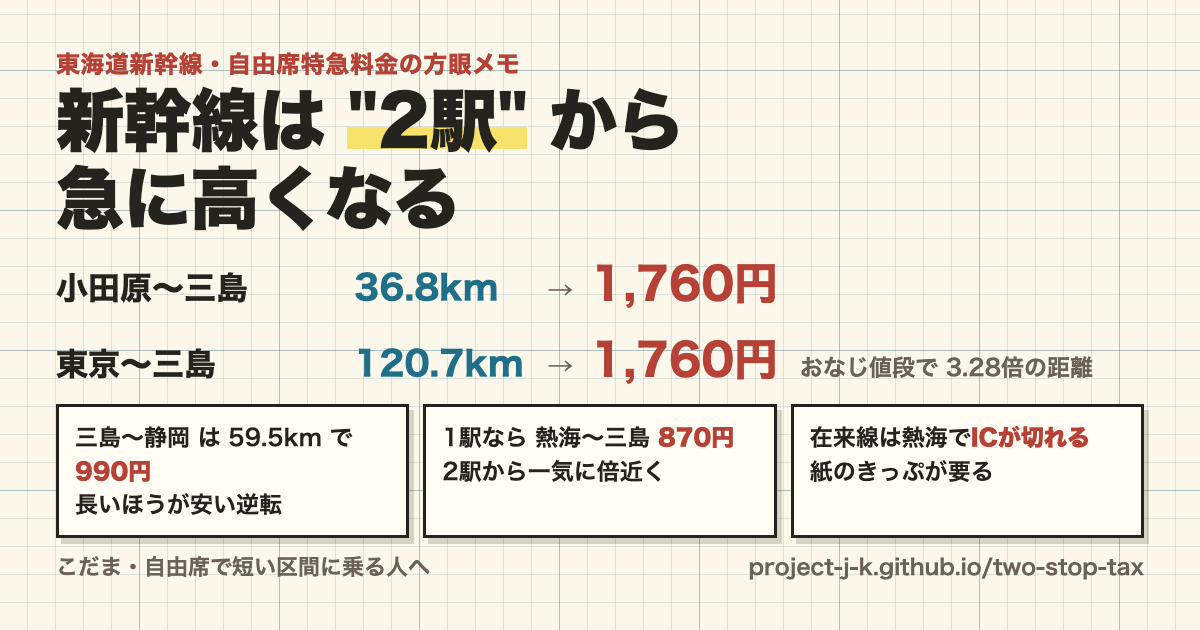
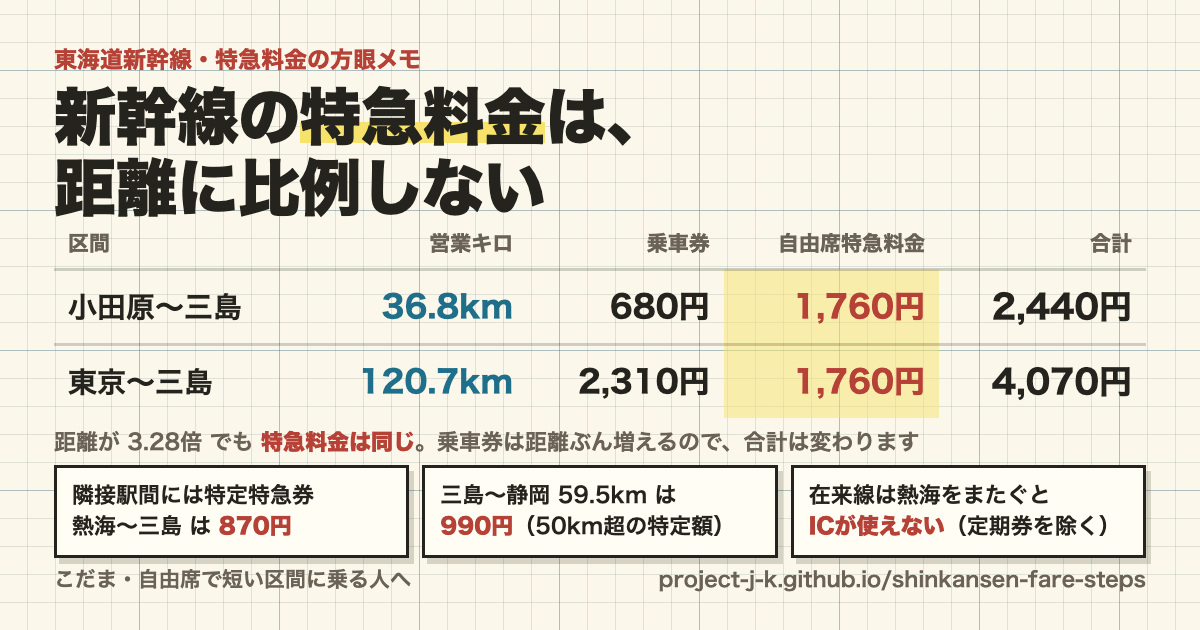
トーンを中立化し、リポジトリ名を shinkansen-fare-steps に変更
公開後のレビューを受けて、制度の解説として公正な書き方に改めた。

- タイトルを「新幹線は 2駅 から急に高くなる」から
  「新幹線の特急料金は、距離に比例しない」へ。価値判断を含む
  表現をやめ、制度の事実の記述にした
- 「跳ね上がる」「放置」「網から落ちて」「逃げる」「壊れて」などを
  淡々とした言い方に。データ側の「いちばん重い」「本サイト」も同様
- 同じなのは特急料金だけで、乗車券は距離に応じて増えるため
  支払総額は 2,440円 と 4,070円 で異なることを本文に明記
- 在来線という選択肢があることを前半でも示した
- OG画像を、乗車券・特急料金・合計を並べた表に作り直した。
  特急料金だけを見た人が総額まで同じだと誤解しないため
- ファビコンの階段を赤（警告色）から青に
- リポジトリ名の tax（税）も同じ懸念があるため改称

Changed region(s): [[0.0308, 0.0603, 0.9558, 0.9349]]

diff --git a/src/sections/article.ts b/src/sections/article.ts
@@ -18,8 +18,6 @@ const keyPoint = (label: string, text: string): string => `
     <blockquote>${escapeHtml(text)}</blockquote>
   </figure>`;
 
-const readerFacingUse = (text: string): string => text.replace("本サイトの一次データ", "本ページの一次資料");
-
 const fareLine = (pair: Pair): string => `
   <tr>
     <td>${sectionName(pair)}</td>
@@ -75,7 +73,7 @@ const renderChecker = (data: TokaidoData): string => {
     <section id="checker" class="section checker-section">
       <p class="section-number">7</p>
       <h2><span>乗る区間を調べてみる</span></h2>
-      <p class="body-text">ここまでの話は、特定の区間だけの珍事件に見えるかもしれません。そこで、出発駅と到着駅を選ぶだけで、その区間が特定特急券の側にいるのか、通常の階段料金の側にいるのかを確認できるようにしました。</p>
+      <p class="body-text">ここまでの話は、特定の区間だけの例に見えるかもしれません。そこで、出発駅と到着駅を選ぶだけで、その区間が特定特急券の対象なのか、通常の階段料金なのかを確認できるようにしました。</p>
       <p class="body-text">表示するのは、乗車券、自由席特急料金、指定席特急料金、実際に払う合計額、そして自由席特急料金を営業キロで割った単価です。同じ駅を選んだ場合は、移動区間ではないので料金を出さず、別の駅を選ぶよう案内します。</p>
       <div class="checker">
         <label>出発駅<select id="fromStation">${options}</select></label>
@@ -125,8 +123,8 @@ export const renderArticle = (data: TokaidoData): string => {
     <header class="hero">
       <div class="hero-copy">
         <p class="kicker">東海道新幹線・自由席特急料金の方眼メモ</p>
-        <h1><span class="title-line">新幹線は <mark>"2駅"</mark> から</span><span class="title-line">急に高くなる</span></h1>
-        <p class="subtitle">${sectionName(hero)} ${km(hero.km)} の自由席特急料金は ${yen(hero.freeLtd)}。${sectionName(same)} ${km(same.km)} も、同じ ${yen(same.freeLtd)}。</p>
+        <h1><span class="title-line">新幹線の<mark>特急料金</mark>は、</span><span class="title-line">距離に比例しない</span></h1>
+        <p class="subtitle">${sectionName(hero)} ${km(hero.km)} の自由席特急料金は ${yen(hero.freeLtd)}。${sectionName(same)} ${km(same.km)} も、特急料金は同じ ${yen(same.freeLtd)} です。</p>
         <div class="hero-note sticky">${data.highlights.hero.note}</div>
       </div>
     </header>
@@ -154,7 +152,8 @@ export const renderArticle = (data: TokaidoData): string => {
         </div>
         <p class="body-text">三島から小田原まで新幹線の自由席に乗ると、乗車券と自由席特急券を合わせて ${yen(hero.freeTotal)} かかります。内訳は乗車券が ${yen(hero.fare)}、自由席特急料金が ${yen(hero.freeLtd)} です。営業キロは ${km(hero.km)} しかありません。</p>
         <p class="body-text">ところが、同じ三島から東京まで ${km(same.km)} 乗っても、自由席特急料金は ${yen(same.freeLtd)} でまったく同じです。特急料金だけを見れば、${sectionName(hero.sameFareFarthest)} のように ${ratio(hero.sameFareFarthest.timesFarther)} の距離まで同じ値段で行けます。</p>
-        <p class="body-text">乗車券は距離に応じて増えていきますが、特急料金はそう動いていません。この違和感がどこから来るのかを、東海道新幹線の全区間の記録で追っていきます。</p>
+        <p class="body-text">ただし、同じなのは特急料金だけです。乗車券は距離に応じて増えるため、自由席で払う合計額は ${sectionName(hero)} が ${yen(hero.freeTotal)}、${sectionName(same)} が ${yen(same.freeTotal)} で異なります。</p>
+        <p class="body-text">乗車券は距離に応じて増えていきますが、特急料金は同じ幅の距離帯ごとに決まります。このページでは、東海道新幹線の全区間の記録から、その仕組みを見ていきます。在来線を使う選択肢についても、後半で整理します。</p>
       </section>
 
       <section id="section-2" class="section">
@@ -162,14 +161,15 @@ export const renderArticle = (data: TokaidoData): string => {
         <h2><span>特急料金は、乗った距離だけでは決まりません</span></h2>
         <p class="body-text">新幹線に乗るときの支払いは、大きく分けると乗車券と特急券です。乗車券は普通列車に乗るための基本料金で、営業キロ、つまり運賃計算に使う鉄道上の距離に応じて増えていきます。</p>
         <p class="body-text">一方で、特急料金は営業キロに応じた階段で決まります。その最初の段である ${data.fareTiers[0].label} が広く、指定席なら ${yen(data.fareTiers[0].reservedLtd)}、自由席なら ${yen(data.fareTiers[0].freeLtd)} が一律でかかります。</p>
-        <p class="body-text">つまり、この段の中では短く乗っても長く乗っても特急料金は同じです。乗車券は少しずつ増えるのに、特急料金だけが平らな踊り場を持っているため、乗る距離が短いほど ${perKm(hero.yenPerKmFree)} のように負担が跳ね上がります。</p>
+        <p class="body-text">つまり、この段の中では短く乗っても長く乗っても特急料金は同じです。距離に完全比例させず、一定の距離帯ごとに料金を決めているため、短距離と長距離の料金差は段階的に表れます。</p>
+        <p class="body-text">そのため、乗る距離が短い区間では、自由席特急料金を営業キロで割った値が ${perKm(hero.yenPerKmFree)} のように大きくなります。これは特急料金だけを1kmあたりで見た場合の比較です。</p>
         ${fareStepChart(data.fareTiers)}
       </section>
 
       <section id="section-3" class="section">
         <p class="section-number">3</p>
         <h2><span>短い区間には割引があります</span></h2>
-        <p class="body-text">JRも短距離の割高感を放置しているわけではありません。隣接する駅どうしの区間には、特定特急券という割安な自由席用の特急券があります。指定席ではなく、自由席に乗るときの短距離向け割引です。</p>
+        <p class="body-text">短距離向けには、別の料金も用意されています。隣接する駅どうしの区間には、特定特急券という自由席用の特急券があります。指定席ではなく、自由席に乗るときの短距離向け割引です。</p>
         <p class="body-text">この特定特急券は、通常の ${data.fareTiers[0].label} の階段とは別枠です。営業キロ ${km(data.tokuteiRule.thresholdKm)} 以下なら ${yen(data.tokuteiRule.amounts.upTo50km)}、${km(data.tokuteiRule.thresholdKm)} を超えるなら ${yen(data.tokuteiRule.amounts.over50km)} になります。熱海〜三島は ${yen(oneStop.freeLtd)}、小田原〜熱海も ${yen(oneStopWest.freeLtd)} です。</p>
         <div class="note-row">
           <div class="sticky small">隣接駅間なら ${km(data.tokuteiRule.thresholdKm)} 以下 ${yen(data.tokuteiRule.amounts.upTo50km)} / 超 ${yen(data.tokuteiRule.amounts.over50km)}</div>
@@ -178,16 +178,16 @@ export const renderArticle = (data: TokaidoData): string => {
             <p>1駅ずつなら ${yen(oneStopWest.freeLtd)} と ${yen(oneStop.freeLtd)}。分割すると ${yen(splitOdawaraMishima.splitLtd)}、通しで買うと ${yen(hero.freeLtd)}。</p>
           </div>
         </div>
-        <p class="body-text">ここが本題です。小田原から三島までは、小田原〜熱海と熱海〜三島を足しただけの距離です。ところが通しの小田原〜三島になると、特定特急券の網から落ちて ${yen(hero.freeLtd)} になります。</p>
-        <p class="body-text">分割購入をしても、差は ${yen(splitOdawaraMishima.saving)} だけです。ほぼ得をしないので、この区間には「買い方で逃げる」余地があまりありません。</p>
+        <p class="body-text">ここで見る小田原から三島までは、小田原〜熱海と熱海〜三島を足した距離です。通しの小田原〜三島は特定特急券の対象ではないため、自由席特急料金は ${yen(hero.freeLtd)} になります。</p>
+        <p class="body-text">分割購入をしても、差は ${yen(splitOdawaraMishima.saving)} だけです。この区間では、買い方で調整できる余地は大きくありません。</p>
       </section>
 
       <section id="section-4" class="section">
         <p class="section-number">4</p>
-        <h2><span>短いほうが高くなる区間があります</span></h2>
-        <p class="body-text">三島から静岡までは ${km(cheaper.km)} ありますが、自由席特急料金は ${yen(cheaper.freeLtd)} です。小田原から三島までは ${km(hero.km)} しかないのに、自由席特急料金は ${yen(hero.freeLtd)} です。</p>
-        <p class="body-text">短いほうが高い、という逆転が起きています。差額は ${yen(shortPremium)} です。これは割引商品やキャンペーンの話ではなく、通常の自由席特急料金どうしの比較です。</p>
-        <p class="body-text">新横浜〜小田原も ${km(cheaper2.km)} で ${yen(cheaper2.freeLtd)} です。小田原〜三島より長いのに安い区間が複数あることで、距離と値段の対応が壊れて見える理由がはっきりします。</p>
+        <h2><span>距離の順と特急料金の順が異なる区間があります</span></h2>
+        <p class="body-text">三島から静岡までは ${km(cheaper.km)} あり、自由席特急料金は ${yen(cheaper.freeLtd)} です。小田原から三島までは ${km(hero.km)} で、自由席特急料金は ${yen(hero.freeLtd)} です。</p>
+        <p class="body-text">この比較では、短い区間のほうが自由席特急料金は高くなっています。差額は ${yen(shortPremium)} です。これは割引商品やキャンペーンの話ではなく、通常の自由席特急料金どうしの比較です。</p>
+        <p class="body-text">新横浜〜小田原も ${km(cheaper2.km)} で ${yen(cheaper2.freeLtd)} です。小田原〜三島より長く、自由席特急料金が低い区間が複数あるため、距離の順と料金の順が一致しない場合があります。</p>
         ${comparisonBarChart(comparisonItems)}
       </section>
 
@@ -198,8 +198,8 @@ export const renderArticle = (data: TokaidoData): string => {
         <p class="body-text">その後に新駅ができた区間は、規則に区間名を書いて割引を続けています。代表例が ${sectionName(cheaper)} で、あとから新富士が入って現在は隣どうしではなくなっても、自由席特急料金は ${yen(cheaper.freeLtd)} のままです。</p>
         ${keyPoint("特定特急券の基準", data.tokuteiRule.basisNote)}
         ${timeline1972Chart(data.stations, data.tokuteiRule)}
-        <p class="body-text">一方で、三島駅の開業は ${year(mishimaStation.opened)}年です。基準になる ${year(data.tokuteiRule.basisYear)}年には、すでに小田原・熱海・三島の順で駅が並んでいました。小田原と三島は隣接だったことがないため、「あとから駅が挟まった区間」として割引される入口に立てませんでした。</p>
-        <p class="body-text">もし三島が新富士たちと同じ ${year(newFujiStation.opened)}年開業だったなら、小田原〜三島は今も特定特急券の対象で、${km(data.tokuteiRule.thresholdKm)} 以下の ${yen(data.tokuteiRule.amounts.upTo50km)} だったはずです。半世紀前の駅の並びが、いまの短距離移動の負担感につながっています。</p>
+        <p class="body-text">一方で、三島駅の開業は ${year(mishimaStation.opened)}年です。基準になる ${year(data.tokuteiRule.basisYear)}年には、すでに小田原・熱海・三島の順で駅が並んでいました。小田原と三島は隣接だったことがないため、「あとから駅が挟まった区間」として扱われる条件には該当しません。</p>
+        <p class="body-text">もし三島が新富士たちと同じ ${year(newFujiStation.opened)}年開業だったなら、小田原〜三島は今も特定特急券の対象で、${km(data.tokuteiRule.thresholdKm)} 以下の ${yen(data.tokuteiRule.amounts.upTo50km)} になっていた可能性があります。半世紀前の駅の並びが、いまの短距離区間の料金体系につながっています。</p>
         ${keyPoint("小田原〜三島が外れた理由", data.tokuteiRule.whyOdawaraMishimaExcluded)}
         <ul class="lined-list">
           ${data.tokuteiRule.enumeratedSections
@@ -218,7 +218,7 @@ export const renderArticle = (data: TokaidoData): string => {
         <p class="body-text">全区間で見ると、隣接駅間は距離が極端に短いので単価が高く出ます。これは短距離向けの特定特急券が効いていても、分母の営業キロが小さいためです。</p>
         ${collapsedRowsTable(fareHeaders, worst.map(fareLine))}
         <h3 class="subhead">自由席 円/km が高い区間（特定特急券なし）</h3>
-        <p class="body-text">特定特急券が効かない区間だけに絞ると、短距離なのに通常の階段料金へ乗ってしまう区間が浮かびます。この表では ${sectionName(worstNoTokutei[0])} が先頭に来ます。</p>
+        <p class="body-text">特定特急券が効かない区間だけに絞ると、短距離で通常の階段料金に入る区間が分かります。この表では ${sectionName(worstNoTokutei[0])} が先頭に来ます。</p>
         ${collapsedRowsTable(fareHeaders, worstNoTokutei.map(fareLine))}
       </section>
 
@@ -227,14 +227,14 @@ export const renderArticle = (data: TokaidoData): string => {
       <section id="section-8" class="section">
         <p class="section-number">8</p>
         <h2><span>同じことが起きている区間</span></h2>
-        <p class="body-text">ここで見るのは、特定特急券が効かず、営業キロが ${data.fareTiers[0].label} の中に収まる区間です。さらに、あいだに駅があるほど「短距離なのに隣接駅扱いではない」ことが分かりやすくなります。</p>
-        <p class="body-text">一覧には、あいだの駅数も加えました。営業キロだけなら短いのに、特急料金は通常の踊り場に乗ってしまう区間です。</p>
+        <p class="body-text">ここで見るのは、特定特急券が効かず、営業キロが ${data.fareTiers[0].label} の中に収まる区間です。さらに、あいだに駅があるほど「短距離でも隣接駅間として扱われない」ことが分かりやすくなります。</p>
+        <p class="body-text">一覧には、あいだの駅数も加えました。営業キロは短くても、特急料金は通常の距離帯で決まる区間です。</p>
         ${collapsedRowsTable(
           noTokuteiHeaders,
           noTokuteiUnderTier.map((pair) => `<tr><td>${sectionName(pair)}</td><td>${km(pair.km)}</td><td>${pair.stationsBetween.toLocaleString("ja-JP")}</td><td>${yen(pair.fare)}</td><td>${yen(pair.freeLtd)}</td><td>${yen(pair.freeTotal)}</td><td>${yen(pair.reservedLtd)}</td><td>${yen(pair.reservedTotal)}</td><td>${perKm(pair.yenPerKmFree)}</td><td>${sameFareCell(pair)}</td></tr>`),
         )}
         <p class="body-text">分割購入は、区間によって効き方がかなり違います。${splitGifuKyoto.from}〜${splitGifuKyoto.to} は ${yen(splitGifuKyoto.saving)} も安くなりますが、${splitOdawaraMishima.from}〜${splitOdawaraMishima.to} は ${yen(splitOdawaraMishima.saving)} しか変わりません。</p>
-        <p class="body-text">理由は単純です。小田原〜三島は通しで買っても、すでに最初の踊り場である ${yen(data.fareTiers[0].freeLtd)} どまりです。そこから分割しても、下げ幅がほとんど残っていません。</p>
+        <p class="body-text">理由は単純です。小田原〜三島は通しで買っても、すでに最初の距離帯である ${yen(data.fareTiers[0].freeLtd)} です。そこから分割しても、差額は小さくなります。</p>
         <div class="split-grid">
           ${data.splits
             .map(
@@ -252,7 +252,7 @@ export const renderArticle = (data: TokaidoData): string => {
         <p class="section-number">9</p>
         <h2><span>在来線なら安い。ただし熱海で乗り継ぎになります</span></h2>
         <p class="body-text">在来線を選ぶと、特急料金はかかりません。小田原〜三島なら、乗車券は ${yen(hero.fare)} です。新幹線の自由席に乗ると合計は ${yen(hero.freeTotal)} なので、乗車券だけの場合の ${ratio(hero.freeMultipleOfFare)} になります。</p>
-        <p class="body-text">この差は、速さと乗り通しやすさに対して支払う上乗せ分です。短い距離では、その上乗せ分がかなり大きく見えます。</p>
+        <p class="body-text">この差は、速さと乗り通しやすさに対して支払う上乗せ分です。短い距離では、その上乗せ分の割合が大きく見えます。</p>
         ${keyPoint("新幹線と在来線の乗車券", data.conventionalLine.note)}
         <div class="boundary-grid">
           <div class="paper-block"><h3>${data.conventionalLine.boundary.station}の会社境界</h3><p>${data.conventionalLine.boundary.east}</p><p>${data.conventionalLine.boundary.west}</p>${keyPoint("会社の境界はどこか", data.conventionalLine.boundary.physicalBoundary)}</div>
@@ -273,13 +273,13 @@ export const renderArticle = (data: TokaidoData): string => {
           <summary>出典 ${data.sources.length.toLocaleString("ja-JP")}件（JR東海 旅客営業規則ほか）</summary>
           <ol>
             ${data.sources
-              .map((source) => `<li><a href="${escapeHtml(source.url)}" rel="noreferrer">${escapeHtml(source.title)}</a><span>${escapeHtml(source.publisher)} / ${escapeHtml(readerFacingUse(source.used))}</span></li>`)
+              .map((source) => `<li><a href="${escapeHtml(source.url)}" rel="noreferrer">${escapeHtml(source.title)}</a><span>${escapeHtml(source.publisher)} / ${escapeHtml((source.used))}</span></li>`)
               .join("")}
           </ol>
         </details>
         <div class="paper-block">
           <p>${data.meta.fareBasis}</p>
-          <p>${readerFacingUse(data.meta.reservedSource)}</p>
+          <p>${(data.meta.reservedSource)}</p>
           <p>${data.meta.tokuteiBasis}</p>
           <ul>${data.meta.caveats.map((caveat) => `<li>${escapeHtml(caveat)}</li>`).join("")}</ul>
         </div>

diff --git a/index.html b/index.html
@@ -3,10 +3,10 @@
   <head>
     <meta charset="UTF-8" />
     <meta name="viewport" content="width=device-width, initial-scale=1.0" />
-    <title>新幹線は &quot;2駅&quot; から急に高くなる｜東海道新幹線・短距離の特急料金</title>
+    <title>新幹線の特急料金は、距離に比例しない｜東海道新幹線・短い区間の料金のしくみ</title>
     <meta
       name="description"
-      content="小田原〜三島 36.8km の自由席特急料金は1,760円。東京〜三島 120.7km も同じ1,760円です。なぜ短い区間ほど割高になるのか、JR東海の旅客営業規則と全136区間のデータで確かめました。"
+      content="東海道新幹線の特急料金は、営業キロの距離帯ごとに決まります。小田原〜三島 36.8km も東京〜三島 120.7km も自由席特急料金は1,760円で、乗車券を含めた合計では 2,440円 と 4,070円 になります。JR東海の旅客営業規則と全136区間の記録から、そのしくみを整理しました。"
     />
 
     <link rel="icon" href="/favicon.svg" type="image/svg+xml" />
@@ -16,28 +16,28 @@
 
     <meta property="og:type" content="article" />
     <meta property="og:locale" content="ja_JP" />
-    <meta property="og:site_name" content="東海道新幹線・自由席特急料金の方眼メモ" />
-    <meta property="og:url" content="https://project-j-k.github.io/two-stop-tax/" />
-    <meta property="og:title" content="新幹線は &quot;2駅&quot; から急に高くなる" />
+    <meta property="og:site_name" content="東海道新幹線・特急料金の方眼メモ" />
+    <meta property="og:url" content="https://project-j-k.github.io/shinkansen-fare-steps/" />
+    <meta property="og:title" content="新幹線の特急料金は、距離に比例しない" />
     <meta
       property="og:description"
-      content="小田原〜三島 36.8km も、東京〜三島 120.7km も、自由席特急料金は同じ1,760円。1駅なら熱海〜三島は870円なのに、2駅またぐと倍近くに。在来線に逃げても熱海でICが切れます。こだま・自由席で短い区間に乗る人へ。"
+      content="特急料金は営業キロの距離帯ごとに決まります。小田原〜三島 36.8km も東京〜三島 120.7km も自由席特急料金は1,760円。ただし乗車券は距離ぶん増えるので、合計は 2,440円 と 4,070円 です。隣接駅間には特定特急券という短距離向けの料金もあります。"
     />
-    <meta property="og:image" content="https://project-j-k.github.io/two-stop-tax/og.png" />
+    <meta property="og:image" content="https://project-j-k.github.io/shinkansen-fare-steps/og.png" />
     <meta property="og:image:width" content="1200" />
     <meta property="og:image:height" content="630" />
     <meta
       property="og:image:alt"
-      content="小田原〜三島 36.8km が1,760円、東京〜三島 120.7km も1,760円であることを並べた図"
+      content="小田原〜三島と東京〜三島の、乗車券・特急料金・合計を並べた比較図"
     />
 
     <meta name="twitter:card" content="summary_large_image" />
-    <meta name="twitter:title" content="新幹線は &quot;2駅&quot; から急に高くなる" />
+    <meta name="twitter:title" content="新幹線の特急料金は、距離に比例しない" />
     <meta
       name="twitter:description"
-      content="小田原〜三島 36.8km も、東京〜三島 120.7km も、自由席特急料金は同じ1,760円。1駅なら870円なのに、2駅またぐと倍近くに。在来線は熱海でICが切れます。"
+      content="特急料金は距離帯ごとに決まります。小田原〜三島 36.8km も東京〜三島 120.7km も自由席特急料金は1,760円。乗車券は距離ぶん増えるので、合計は 2,440円 と 4,070円 です。"
     />
-    <meta name="twitter:image" content="https://project-j-k.github.io/two-stop-tax/og.png" />
+    <meta name="twitter:image" content="https://project-j-k.github.io/shinkansen-fare-steps/og.png" />
   </head>
   <body>
     <div id="app"></div>

diff --git a/vite.config.ts b/vite.config.ts
@@ -3,7 +3,7 @@ import { data } from "./src/lib/data";
 import { renderArticle } from "./src/sections/article";
 
 export default defineConfig({
-  base: process.env.VITE_BASE_PATH ?? "/two-stop-tax/",
+  base: process.env.VITE_BASE_PATH ?? "/shinkansen-fare-steps/",
   plugins: [
     {
       name: "inline-rendered-article",

diff --git a/src/style.css b/src/style.css
@@ -298,7 +298,8 @@ h2 {
 }
 
 .hero-note {
-  width: 100%;
+  /* 左端は本文と揃えたまま、注記らしく幅だけ抑える */
+  width: min(660px, 100%);
   margin: 4px 0 0;
   font-weight: 800;
   overflow-wrap: anywhere;

diff --git a/scripts/make-og.py b/scripts/make-og.py
@@ -4,28 +4,40 @@
 使い方（リポジトリのルートで）:
 
     python3 scripts/make-og.py            # public/og.html を生成
-    "/Applications/Google Chrome.app/Contents/MacOS/Google Chrome" \\
-      --headless=new --disable-gpu --hide-scrollbars \\
-      --window-size=1200,630 --screenshot=public/og.png \\
+    "/Applications/Google Chrome.app/Contents/MacOS/Google Chrome" \
+      --headless=new --disable-gpu --hide-scrollbars \
+      --window-size=1200,630 --screenshot=public/og.png \
       "file://$PWD/public/og.html"
     rm public/og.html                     # PNG にしたら中間HTMLは不要
 
 数値はすべて src/data/tokaido.json から読むので、データを更新したら
 このスクリプトで OG 画像を作り直すこと。
-"""
-import os
-ROOT = os.path.dirname(os.path.dirname(os.path.abspath(__file__)))
-import json
 
+乗車券・特急料金・合計を並べて出しているのは、「同じなのは特急料金だけで、
+支払総額は距離に応じて変わる」ことを画像だけ見た人が誤解しないため。
+"""
+import json, os
+
+ROOT = os.path.dirname(os.path.dirname(os.path.abspath(__file__)))
 d = json.load(open(os.path.join(ROOT, 'src/data/tokaido.json')))
 h = d['highlights']
 hero, same, cheap, one = h['hero'], h['sameFareLongerRide'], h['cheaperButLonger'], h['oneStop']
+tk = d['tokuteiRule']
 ic = d['conventionalLine']['boundary']['station']
 yen = lambda v: f"{v:,}円"
-km  = lambda v: f"{v}km"
+km = lambda v: f"{v}km"
+
+def row(p, accent=False):
+    cls = ' class="accent"' if accent else ''
+    return f"""<tr{cls}>
+      <th>{p['from']}〜{p['to']}</th>
+      <td class="km">{km(p['km'])}</td>
+      <td>{yen(p['fare'])}</td>
+      <td class="ltd">{yen(p['freeLtd'])}</td>
+      <td class="total">{yen(p['freeTotal'])}</td>
+    </tr>"""
 
 page = f"""<!doctype html><html><head><meta charset="utf-8"><style>
-@page {{ size: 1200px 630px; }}
 * {{ box-sizing: border-box; margin: 0; }}
 body {{
   width: 1200px; height: 630px; overflow: hidden;
@@ -37,59 +49,58 @@ body {{
     repeating-linear-gradient(90deg, transparent 0 27px, rgba(64,111,131,.16) 27px 28px),
     repeating-linear-gradient(0deg, transparent 0 139px, rgba(64,111,131,.3) 139px 140px),
     repeating-linear-gradient(90deg, transparent 0 139px, rgba(64,111,131,.3) 139px 140px);
-  padding: 46px 56px;
+  padding: 42px 54px 34px;
   display: flex; flex-direction: column; justify-content: space-between;
 }}
-.kicker {{ color: #b64237; font-size: 24px; font-weight: 800; letter-spacing: .02em; }}
-h1 {{ font-size: 68px; line-height: 1.14; font-weight: 900; letter-spacing: -.01em; }}
+.kicker {{ color: #b64237; font-size: 23px; font-weight: 800; }}
+h1 {{ font-size: 62px; line-height: 1.14; font-weight: 900; letter-spacing: -.01em; margin-top: 4px; }}
 h1 span {{ display: block; white-space: nowrap; }}
 h1 mark {{ color: inherit; background: linear-gradient(to top, transparent .07em, #f7e36b .07em, #f7e36b .4em, transparent .4em); }}
-.rows {{ display: flex; flex-direction: column; gap: 10px; }}
-.row {{ display: flex; align-items: baseline; gap: 18px; font-weight: 800; }}
-.sec {{ font-size: 32px; width: 280px; }}
-.km  {{ font-size: 34px; width: 175px; color: #1f6f8b; }}
-.arrow {{ font-size: 26px; color: #6a6256; }}
-.fare {{ font-size: 44px; color: #b64237; }}
-.same {{ font-size: 23px; margin-left: 4px; color: #6a6256; font-weight: 700; }}
-.notes {{ display: flex; gap: 14px; }}
+table {{ border-collapse: collapse; width: 100%; font-weight: 800; }}
+thead th {{ font-size: 21px; color: #6a6256; font-weight: 800; padding: 0 14px 8px; text-align: right; }}
+thead th:first-child {{ text-align: left; }}
+tbody th {{ font-size: 29px; text-align: left; padding: 11px 14px; white-space: nowrap; }}
+tbody td {{ font-size: 31px; text-align: right; padding: 11px 14px; }}
+tbody tr {{ border-top: 3px solid rgba(37,35,29,.2); }}
+.km {{ color: #1f6f8b; }}
+.ltd {{ color: #b64237; background: rgba(247,227,107,.5); }}
+.total {{ font-size: 33px; }}
+.caption {{ font-size: 22px; font-weight: 700; color: #6a6256; margin-top: 8px; }}
+.caption b {{ color: #b64237; }}
+.notes {{ display: flex; gap: 13px; }}
 .note {{
   flex: 1; border: 3px solid #25231d; background: #fffdf4;
   box-shadow: 5px 6px 0 rgba(50,42,30,.18);
-  padding: 14px 16px; font-size: 23px; font-weight: 700; line-height: 1.45;
+  padding: 12px 15px; font-size: 22px; font-weight: 700; line-height: 1.45;
 }}
 .note b {{ color: #b64237; }}
-.foot {{ display: flex; justify-content: space-between; align-items: flex-end; font-size: 22px; color: #6a6256; font-weight: 700; }}
+.foot {{ display: flex; justify-content: space-between; font-size: 21px; color: #6a6256; font-weight: 700; }}
 </style></head><body>
   <div>
-    <p class="kicker">東海道新幹線・自由席特急料金の方眼メモ</p>
-    <h1><span>新幹線は <mark>"2駅"</mark> から</span><span>急に高くなる</span></h1>
+    <p class="kicker">東海道新幹線・特急料金の方眼メモ</p>
+    <h1><span>新幹線の<mark>特急料金</mark>は、</span><span>距離に比例しない</span></h1>
   </div>
 
-  <div class="rows">
-    <div class="row">
-      <span class="sec">{hero['from']}〜{hero['to']}</span>
-      <span class="km">{km(hero['km'])}</span>
-      <span class="arrow">→</span>
-      <span class="fare">{yen(hero['freeLtd'])}</span>
-    </div>
-    <div class="row">
-      <span class="sec">{same['from']}〜{same['to']}</span>
-      <span class="km">{km(same['km'])}</span>
-      <span class="arrow">→</span>
-      <span class="fare">{yen(same['freeLtd'])}</span>
-      <span class="same">おなじ値段で {round(same['km']/hero['km'],2)}倍の距離</span>
-    </div>
+  <div>
+    <table>
+      <thead><tr><th>区間</th><th>営業キロ</th><th>乗車券</th><th>自由席特急料金</th><th>合計</th></tr></thead>
+      <tbody>
+        {row(hero, True)}
+        {row(same)}
+      </tbody>
+    </table>
+    <p class="caption">距離が {round(same['km'] / hero['km'], 2)}倍 でも <b>特急料金は同じ</b>。乗車券は距離ぶん増えるので、合計は変わります</p>
   </div>
 
   <div class="notes">
-    <div class="note">{cheap['from']}〜{cheap['to']} は {km(cheap['km'])} で <b>{yen(cheap['freeLtd'])}</b><br>長いほうが安い逆転</div>
-    <div class="note">1駅なら {one['from']}〜{one['to']} <b>{yen(one['freeLtd'])}</b><br>2駅から一気に倍近く</div>
-    <div class="note">在来線は{ic}で<b>ICが切れる</b><br>紙のきっぷが要る</div>
+    <div class="note">隣接駅間には特定特急券<br>{one['from']}〜{one['to']} は <b>{yen(one['freeLtd'])}</b></div>
+    <div class="note">{cheap['from']}〜{cheap['to']} {km(cheap['km'])} は<br><b>{yen(cheap['freeLtd'])}</b>（{tk['thresholdKm']}km超の特定額）</div>
+    <div class="note">在来線は{ic}をまたぐと<br><b>ICが使えない</b>（定期券を除く）</div>
   </div>
 
   <div class="foot">
     <span>こだま・自由席で短い区間に乗る人へ</span>
-    <span>project-j-k.github.io/two-stop-tax</span>
+    <span>project-j-k.github.io/shinkansen-fare-steps</span>
   </div>
 </body></html>"""
 

diff --git a/README.md b/README.md
@@ -1,6 +1,6 @@
-# two-stop-tax — 新幹線は "2駅" から急に高くなる
+# shinkansen-fare-steps — 新幹線は "2駅" から急に高くなる
 
-東海道新幹線の「短距離ほど特急料金が割高になる」構造を解説する静的サイトです。公開先は https://project-j-k.github.io/two-stop-tax/ です。Vite + TypeScript の vanilla 実装で、チャートライブラリや外部フォント、CDN、外部画像は使っていません。
+東海道新幹線の「短距離ほど特急料金が割高になる」構造を解説する静的サイトです。公開先は https://project-j-k.github.io/shinkansen-fare-steps/ です。Vite + TypeScript の vanilla 実装で、チャートライブラリや外部フォント、CDN、外部画像は使っていません。
 
 ## ローカル起動
 
@@ -19,11 +19,11 @@ npm run build
 
 ## GitHub Pages 公開手順
 
-1. GitHub に `two-stop-tax` リポジトリを作成する。
+1. GitHub に `shinkansen-fare-steps` リポジトリを作成する。
 2. ローカルで remote を追加する。
 
 ```bash
-git remote add origin git@github.com:project-j-k/two-stop-tax.git
+git remote add origin git@github.com:project-j-k/shinkansen-fare-steps.git
 git branch -M main
 git push -u origin main
 ```
@@ -33,7 +33,7 @@ git push -u origin main
 
 ## base パス
 
-`vite.config.ts` の既定 base は `/two-stop-tax/` です。リポジトリ名を変える場合は、ビルド時に `VITE_BASE_PATH` を指定してください。
+`vite.config.ts` の既定 base は `/shinkansen-fare-steps/` です。リポジトリ名を変える場合は、ビルド時に `VITE_BASE_PATH` を指定してください。
 
 ```bash
 VITE_BASE_PATH=/another-repo/ npm run build
